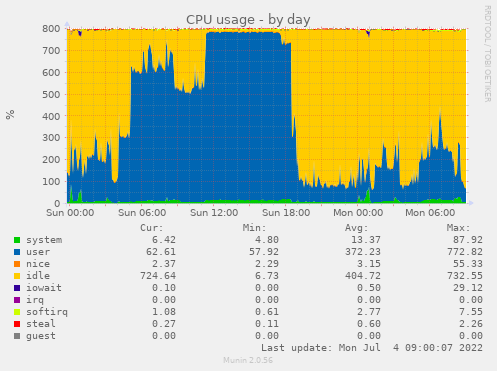
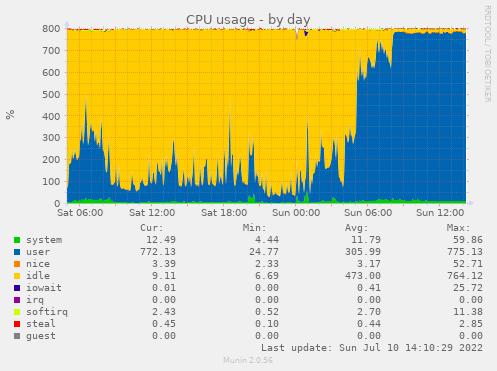
Update notes

diff --git a/docs/2022-07/index.html b/docs/2022-07/index.html
@@ -19,7 +19,7 @@ Also, the trgm functions I&rsquo;ve used before are case insensitive, but Levens
 <meta property="og:type" content="article" />
 <meta property="og:url" content="https://alanorth.github.io/cgspace-notes/2022-07/" />
 <meta property="article:published_time" content="2022-07-02T14:07:36+03:00" />
-<meta property="article:modified_time" content="2022-07-07T10:02:04+03:00" />
+<meta property="article:modified_time" content="2022-07-08T15:49:45+03:00" />
 
 
 
@@ -44,9 +44,9 @@ Also, the trgm functions I&rsquo;ve used before are case insensitive, but Levens
   "@type": "BlogPosting",
   "headline": "July, 2022",
   "url": "https://alanorth.github.io/cgspace-notes/2022-07/",
-  "wordCount": "1095",
+  "wordCount": "1660",
   "datePublished": "2022-07-02T14:07:36+03:00",
-  "dateModified": "2022-07-07T10:02:04+03:00",
+  "dateModified": "2022-07-08T15:49:45+03:00",
   "author": {
     "@type": "Person",
     "name": "Alan Orth"
@@ -315,7 +315,123 @@ Also, the trgm functions I&rsquo;ve used before are case insensitive, but Levens
 <li>For now we will keep them in the search filters</li>
 </ul>
 </li>
+<li>I modified my <code>check-duplicates.py</code> script a bit to fix a logic error for deleted items and add similarity scores from spacy (see: <a href="https://stackoverflow.com/questions/8897593/how-to-compute-the-similarity-between-two-text-documents">https://stackoverflow.com/questions/8897593/how-to-compute-the-similarity-between-two-text-documents</a>)
+<ul>
+<li>I want to use this with the MARLO innovation reports, to find related publications and working papers on CGSpace</li>
+<li>I am curious to see how the similarity scores compare to those from trgm&hellip; perhaps we don&rsquo;t need them actually</li>
 </ul>
+</li>
+<li>Deploy latest changes to submission form, Discovery, and browse on CGSpace
+<ul>
+<li>Also run all system updates and reboot the host</li>
+</ul>
+</li>
+<li>Fix 152 <code>dcterms.relation</code> that are using &ldquo;cgspace.cgiar.org&rdquo; links instead of handles:</li>
+</ul>
+<div class="highlight"><pre tabindex="0" style="color:#f8f8f2;background-color:#272822;-moz-tab-size:4;-o-tab-size:4;tab-size:4;"><code class="language-console" data-lang="console"><span style="display:flex;"><span>UPDATE metadatavalue SET text_value = REGEXP_REPLACE(text_value, &#39;.*cgspace\.cgiar\.org/handle/(\d+/\d+)$&#39;, &#39;https://hdl.handle.net/\1&#39;) WHERE dspace_object_id IN (SELECT uuid FROM item) AND metadata_field_id=180 AND text_value ~ &#39;cgspace\.cgiar\.org/handle/\d+/\d+$&#39;;
+</span></span></code></pre></div><h2 id="2022-07-10">2022-07-10</h2>
+<ul>
+<li>UptimeRobot says that CGSpace is down
+<ul>
+<li>I see high load around 22, high CPU around 800%</li>
+<li>Doesn&rsquo;t seem to be a lot of unique IPs:</li>
+</ul>
+</li>
+</ul>
+<div class="highlight"><pre tabindex="0" style="color:#f8f8f2;background-color:#272822;-moz-tab-size:4;-o-tab-size:4;tab-size:4;"><code class="language-console" data-lang="console"><span style="display:flex;"><span># awk <span style="color:#e6db74">&#39;{print $1}&#39;</span> /var/log/nginx/<span style="color:#f92672">{</span>access,library-access,oai,rest<span style="color:#f92672">}</span>.log | sort -u | wc -l
+</span></span><span style="display:flex;"><span>2243
+</span></span></code></pre></div><p>Looking at the top twenty I see some usual IPs, but some new ones on Hetzner that are using many DSpace sessions:</p>
+<div class="highlight"><pre tabindex="0" style="color:#f8f8f2;background-color:#272822;-moz-tab-size:4;-o-tab-size:4;tab-size:4;"><code class="language-console" data-lang="console"><span style="display:flex;"><span>$ grep 65.109.2.97 dspace.log.2022-07-10 | grep -oE <span style="color:#e6db74">&#39;session_id=[A-Z0-9]{32}:ip_addr=&#39;</span> | sort | uniq | wc -l
+</span></span><span style="display:flex;"><span>1613
+</span></span><span style="display:flex;"><span>$ grep 95.216.174.97 dspace.log.2022-07-10 | grep -oE <span style="color:#e6db74">&#39;session_id=[A-Z0-9]{32}:ip_addr=&#39;</span> | sort | uniq | wc -l
+</span></span><span style="display:flex;"><span>1696
+</span></span><span style="display:flex;"><span>$ grep 65.109.15.213 dspace.log.2022-07-10 | grep -oE <span style="color:#e6db74">&#39;session_id=[A-Z0-9]{32}:ip_addr=&#39;</span> | sort | uniq | wc -l
+</span></span><span style="display:flex;"><span>1708
+</span></span><span style="display:flex;"><span>$ grep 65.108.80.78 dspace.log.2022-07-10 | grep -oE <span style="color:#e6db74">&#39;session_id=[A-Z0-9]{32}:ip_addr=&#39;</span> | sort | uniq | wc -l
+</span></span><span style="display:flex;"><span>1830
+</span></span><span style="display:flex;"><span>$ grep 65.108.95.23 dspace.log.2022-07-10 | grep -oE <span style="color:#e6db74">&#39;session_id=[A-Z0-9]{32}:ip_addr=&#39;</span> | sort | uniq | wc -l
+</span></span><span style="display:flex;"><span>1811
+</span></span></code></pre></div><p><img src="/cgspace-notes/2022/07/jmx_dspace_sessions-week.png" alt="DSpace sessions week"></p>
+<ul>
+<li>
+<p>These IPs are using normal-looking user agents:</p>
+<ul>
+<li><code>Mozilla/5.0 (Windows NT 10.0; Win64; x64; rv:52.9) Gecko/20100101 Goanna/4.1 Firefox/52.9 PaleMoon/28.0.0.1</code></li>
+<li><code>Mozilla/5.0 (Windows NT 10.0; WOW64; rv:40.0) Gecko/20100101 Firefox/45.0&quot;</code></li>
+<li><code>Mozilla/5.0 (Macintosh; Intel Mac OS X 10.9; rv:56.0) Gecko/20100101 Firefox/56.0.1 Waterfox/56.0.1</code></li>
+<li><code>Mozilla/5.0 (Windows NT 10.0; WOW64) AppleWebKit/537.36 (KHTML, like Gecko) Chrome/71.0.3578.85 Safari/537.36</code></li>
+</ul>
+</li>
+<li>
+<p>I will add networks I&rsquo;m seeing now to nginx&rsquo;s bot-networks.conf for now (not all of Hetzner) and purge the hits later:</p>
+<ul>
+<li>65.108.0.0/16</li>
+<li>65.21.0.0/16</li>
+<li>95.216.0.0/16</li>
+<li>135.181.0.0/16</li>
+<li>138.201.0.0/16</li>
+</ul>
+</li>
+<li>
+<p>I think I&rsquo;m going to get to a point where I categorize all commercial subnets as bots by default and then whitelist those we need</p>
+</li>
+<li>
+<p>Sheesh, there are a bunch more IPv6 addresses also on Hetzner:</p>
+</li>
+</ul>
+<div class="highlight"><pre tabindex="0" style="color:#f8f8f2;background-color:#272822;-moz-tab-size:4;-o-tab-size:4;tab-size:4;"><code class="language-console" data-lang="console"><span style="display:flex;"><span># awk <span style="color:#e6db74">&#39;{print $1}&#39;</span> /var/log/nginx/<span style="color:#f92672">{</span>access,library-access<span style="color:#f92672">}</span>.log | sort | grep 2a01:4f9 | uniq -c | sort -h
+</span></span><span style="display:flex;"><span>      1 2a01:4f9:6a:1c2b::2
+</span></span><span style="display:flex;"><span>      2 2a01:4f9:2b:5a8::2
+</span></span><span style="display:flex;"><span>      2 2a01:4f9:4b:4495::2
+</span></span><span style="display:flex;"><span>     96 2a01:4f9:c010:518c::1
+</span></span><span style="display:flex;"><span>    137 2a01:4f9:c010:a9bc::1
+</span></span><span style="display:flex;"><span>    142 2a01:4f9:c010:58c9::1
+</span></span><span style="display:flex;"><span>    142 2a01:4f9:c010:58ea::1
+</span></span><span style="display:flex;"><span>    144 2a01:4f9:c010:58eb::1
+</span></span><span style="display:flex;"><span>    145 2a01:4f9:c010:6ff8::1
+</span></span><span style="display:flex;"><span>    148 2a01:4f9:c010:5190::1
+</span></span><span style="display:flex;"><span>    149 2a01:4f9:c010:7d6d::1
+</span></span><span style="display:flex;"><span>    153 2a01:4f9:c010:5226::1
+</span></span><span style="display:flex;"><span>    156 2a01:4f9:c010:7f74::1
+</span></span><span style="display:flex;"><span>    160 2a01:4f9:c010:5188::1
+</span></span><span style="display:flex;"><span>    161 2a01:4f9:c010:58e5::1
+</span></span><span style="display:flex;"><span>    168 2a01:4f9:c010:58ed::1
+</span></span><span style="display:flex;"><span>    170 2a01:4f9:c010:548e::1
+</span></span><span style="display:flex;"><span>    170 2a01:4f9:c010:8c97::1
+</span></span><span style="display:flex;"><span>    175 2a01:4f9:c010:58c8::1
+</span></span><span style="display:flex;"><span>    175 2a01:4f9:c010:aada::1
+</span></span><span style="display:flex;"><span>    182 2a01:4f9:c010:58ec::1
+</span></span><span style="display:flex;"><span>    182 2a01:4f9:c010:ae8c::1
+</span></span><span style="display:flex;"><span>    502 2a01:4f9:c010:ee57::1
+</span></span><span style="display:flex;"><span>    530 2a01:4f9:c011:567a::1
+</span></span><span style="display:flex;"><span>    535 2a01:4f9:c010:d04e::1
+</span></span><span style="display:flex;"><span>    539 2a01:4f9:c010:3d9a::1
+</span></span><span style="display:flex;"><span>    586 2a01:4f9:c010:93db::1
+</span></span><span style="display:flex;"><span>    593 2a01:4f9:c010:a04a::1
+</span></span><span style="display:flex;"><span>    601 2a01:4f9:c011:4166::1
+</span></span><span style="display:flex;"><span>    607 2a01:4f9:c010:9881::1
+</span></span><span style="display:flex;"><span>    640 2a01:4f9:c010:87fb::1
+</span></span><span style="display:flex;"><span>    648 2a01:4f9:c010:e680::1
+</span></span><span style="display:flex;"><span>   1141 2a01:4f9:3a:2696::2
+</span></span><span style="display:flex;"><span>   1146 2a01:4f9:3a:2555::2
+</span></span><span style="display:flex;"><span>   3207 2a01:4f9:3a:2c19::2
+</span></span></code></pre></div><ul>
+<li>Maybe it&rsquo;s time I ban all of Hetzner&hellip; sheesh.</li>
+<li>I left for a few hours and the server was going up and down the whole time, still very high CPU and database when I got back</li>
+</ul>
+<p><img src="/cgspace-notes/2022/07/cpu-day.png" alt="CPU day"></p>
+<ul>
+<li>I am not sure what&rsquo;s going on
+<ul>
+<li>I extracted all the IPs and used <code>resolve-addresses-geoip2.py</code> to analyze them and extract all the Hetzner networks and block them</li>
+<li>It&rsquo;s 181 IPs on Hetzner&hellip;</li>
+</ul>
+</li>
+<li>I rebooted the server to see if it was just some stuck locks in PostgreSQL&hellip;</li>
+<li>The load is still higher than I would expect, and after a few more hours I see more Hetzner IPs coming through? Two more subnets to block</li>
+<li>Start a harvest on AReS</li>
+</ul>
+<!-- raw HTML omitted -->
 
   
 

diff --git a/docs/categories/notes/index.html b/docs/categories/notes/index.html
@@ -10,7 +10,7 @@
 <meta property="og:description" content="Documenting day-to-day work on the [CGSpace](https://cgspace.cgiar.org) repository." />
 <meta property="og:type" content="website" />
 <meta property="og:url" content="https://alanorth.github.io/cgspace-notes/categories/notes/" />
-<meta property="og:updated_time" content="2022-07-07T10:02:04+03:00" />
+<meta property="og:updated_time" content="2022-07-08T15:49:45+03:00" />
 
 
 

diff --git a/docs/categories/notes/page/2/index.html b/docs/categories/notes/page/2/index.html
@@ -10,7 +10,7 @@
 <meta property="og:description" content="Documenting day-to-day work on the [CGSpace](https://cgspace.cgiar.org) repository." />
 <meta property="og:type" content="website" />
 <meta property="og:url" content="https://alanorth.github.io/cgspace-notes/categories/notes/" />
-<meta property="og:updated_time" content="2022-07-07T10:02:04+03:00" />
+<meta property="og:updated_time" content="2022-07-08T15:49:45+03:00" />
 
 
 

diff --git a/docs/categories/notes/page/3/index.html b/docs/categories/notes/page/3/index.html
@@ -10,7 +10,7 @@
 <meta property="og:description" content="Documenting day-to-day work on the [CGSpace](https://cgspace.cgiar.org) repository." />
 <meta property="og:type" content="website" />
 <meta property="og:url" content="https://alanorth.github.io/cgspace-notes/categories/notes/" />
-<meta property="og:updated_time" content="2022-07-07T10:02:04+03:00" />
+<meta property="og:updated_time" content="2022-07-08T15:49:45+03:00" />
 
 
 

diff --git a/docs/categories/notes/page/4/index.html b/docs/categories/notes/page/4/index.html
@@ -10,7 +10,7 @@
 <meta property="og:description" content="Documenting day-to-day work on the [CGSpace](https://cgspace.cgiar.org) repository." />
 <meta property="og:type" content="website" />
 <meta property="og:url" content="https://alanorth.github.io/cgspace-notes/categories/notes/" />
-<meta property="og:updated_time" content="2022-07-07T10:02:04+03:00" />
+<meta property="og:updated_time" content="2022-07-08T15:49:45+03:00" />
 
 
 

diff --git a/docs/categories/notes/page/5/index.html b/docs/categories/notes/page/5/index.html
@@ -10,7 +10,7 @@
 <meta property="og:description" content="Documenting day-to-day work on the [CGSpace](https://cgspace.cgiar.org) repository." />
 <meta property="og:type" content="website" />
 <meta property="og:url" content="https://alanorth.github.io/cgspace-notes/categories/notes/" />
-<meta property="og:updated_time" content="2022-07-07T10:02:04+03:00" />
+<meta property="og:updated_time" content="2022-07-08T15:49:45+03:00" />
 
 
 

diff --git a/docs/categories/notes/page/6/index.html b/docs/categories/notes/page/6/index.html
@@ -10,7 +10,7 @@
 <meta property="og:description" content="Documenting day-to-day work on the [CGSpace](https://cgspace.cgiar.org) repository." />
 <meta property="og:type" content="website" />
 <meta property="og:url" content="https://alanorth.github.io/cgspace-notes/categories/notes/" />
-<meta property="og:updated_time" content="2022-07-07T10:02:04+03:00" />
+<meta property="og:updated_time" content="2022-07-08T15:49:45+03:00" />
 
 
 

diff --git a/docs/categories/notes/page/7/index.html b/docs/categories/notes/page/7/index.html
@@ -10,7 +10,7 @@
 <meta property="og:description" content="Documenting day-to-day work on the [CGSpace](https://cgspace.cgiar.org) repository." />
 <meta property="og:type" content="website" />
 <meta property="og:url" content="https://alanorth.github.io/cgspace-notes/categories/notes/" />
-<meta property="og:updated_time" content="2022-07-07T10:02:04+03:00" />
+<meta property="og:updated_time" content="2022-07-08T15:49:45+03:00" />
 
 
 

diff --git a/docs/categories/index.html b/docs/categories/index.html
@@ -10,7 +10,7 @@
 <meta property="og:description" content="Documenting day-to-day work on the [CGSpace](https://cgspace.cgiar.org) repository." />
 <meta property="og:type" content="website" />
 <meta property="og:url" content="https://alanorth.github.io/cgspace-notes/categories/" />
-<meta property="og:updated_time" content="2022-07-07T10:02:04+03:00" />
+<meta property="og:updated_time" content="2022-07-08T15:49:45+03:00" />
 
 
 

diff --git a/docs/posts/index.html b/docs/posts/index.html
@@ -10,7 +10,7 @@
 <meta property="og:description" content="Documenting day-to-day work on the [CGSpace](https://cgspace.cgiar.org) repository." />
 <meta property="og:type" content="website" />
 <meta property="og:url" content="https://alanorth.github.io/cgspace-notes/posts/" />
-<meta property="og:updated_time" content="2022-07-07T10:02:04+03:00" />
+<meta property="og:updated_time" content="2022-07-08T15:49:45+03:00" />
 
 
 

diff --git a/docs/posts/page/2/index.html b/docs/posts/page/2/index.html
@@ -10,7 +10,7 @@
 <meta property="og:description" content="Documenting day-to-day work on the [CGSpace](https://cgspace.cgiar.org) repository." />
 <meta property="og:type" content="website" />
 <meta property="og:url" content="https://alanorth.github.io/cgspace-notes/posts/" />
-<meta property="og:updated_time" content="2022-07-07T10:02:04+03:00" />
+<meta property="og:updated_time" content="2022-07-08T15:49:45+03:00" />
 
 
 

diff --git a/docs/posts/page/3/index.html b/docs/posts/page/3/index.html
@@ -10,7 +10,7 @@
 <meta property="og:description" content="Documenting day-to-day work on the [CGSpace](https://cgspace.cgiar.org) repository." />
 <meta property="og:type" content="website" />
 <meta property="og:url" content="https://alanorth.github.io/cgspace-notes/posts/" />
-<meta property="og:updated_time" content="2022-07-07T10:02:04+03:00" />
+<meta property="og:updated_time" content="2022-07-08T15:49:45+03:00" />
 
 
 
